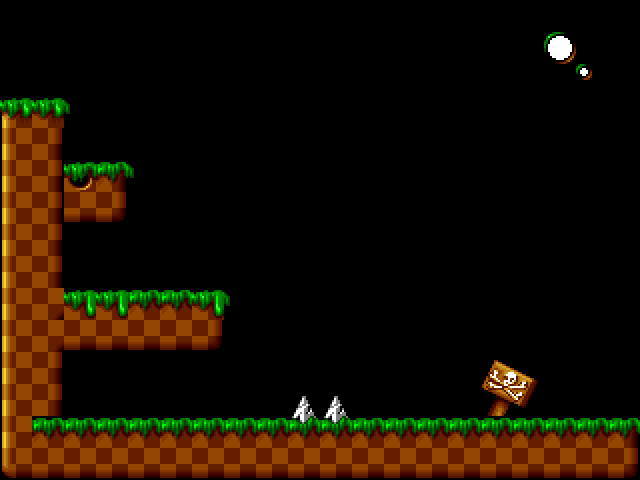
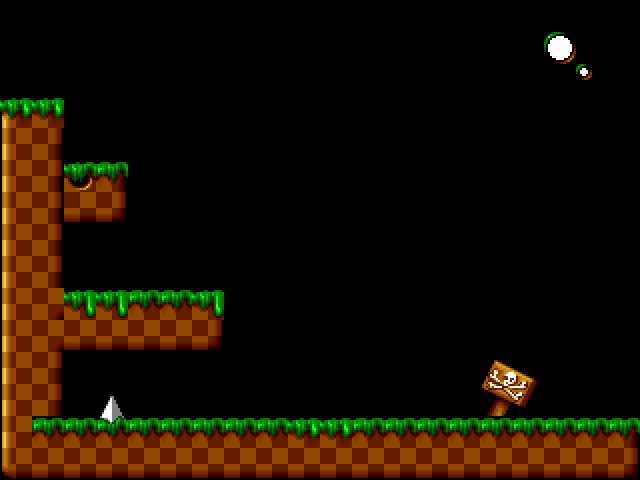
Se corrigieron bugs de la animación de la secuencia de disparo. La animación aún tiene issues y no funciona bien. Se agregaron los sprites para el modo Killer, con sus hojas de sprites para caminar hacia la izquierda y hacia la derecha.

diff --git a/MisteryForest/input.js b/MisteryForest/input.js
@@ -65,6 +65,8 @@ document.addEventListener("keydown", function (ev) {
         case 65:
             if (!firePressed)
             {
+                player.firing = true;
+
                 if (player.isFacingRight)
                 {
                     resourceUrl = 'resources/sprites/hero-sprite-shooting-right.png';
@@ -73,13 +75,13 @@ document.addEventListener("keydown", function (ev) {
                 {
                     //resourceUrl = 'resources/sprites/hero-sprite-jumping-left.png';
                 }
-                framesNumberToAnimate = 12;
+                framesNumberToAnimate = 16;
                 player.sprite.animate(true);
                 player.sprite.animateLinearSequence(resourceUrl, framesNumberToAnimate);
-
-                firePressed = true;
-                break;
             }
+            
+            firePressed = true;
+            break;
     }
 }, false);
 
@@ -100,6 +102,7 @@ document.addEventListener("keyup", function (ev) {
             break;
         case 65:
             firePressed = false;
+            player.firing = false;
             break;
     }
 }, false);
@@ -135,9 +138,7 @@ var inputHandler = {
         }
 
         if (jumpPressed) {
-
             player.sprite.animate(true);
-
         }
 
         if (firePressed) {

diff --git a/MisteryForest/entities/sprite.js b/MisteryForest/entities/sprite.js
@@ -70,7 +70,7 @@
 
                 if (this.counterFramesInLinearSequence < this.framesNumberToAnimateInLinearSequence) {
 
-                    this.draw(x, y);
+                    this.draw(player.size * this.counterFramesInLinearSequence, y);
                 }
                 else
                 {
@@ -97,6 +97,8 @@
         },
         
         animateLinearSequence: function (resourceUrl, framesNumberToAnimate) {
+
+            this.counterFramesInLinearSequence = 0;
 
             this.changeUrl(resourceUrl);
 

diff --git a/MisteryForest/app.js b/MisteryForest/app.js
@@ -109,8 +109,8 @@ function update() {
     // Limita la velocidad de la caída en el eje Y
     player.speedY = Math.min(player.speedY, player.maxFallingSpeed);
     
-    //Si está en el piso, anula la secuencia lineal de animación
-    if (player.onTheGround) {
+    //Si está en el piso y no está disparando, anula la secuencia lineal de animación
+    if (player.onTheGround && !player.firing) {
         player.sprite.linearSequence = false;
     }
 

diff --git a/MisteryForest/entities/player.js b/MisteryForest/entities/player.js
@@ -9,6 +9,9 @@ var player = {
 
     //Indica si finalizó el salto
     jumped: false,
+    
+    //Indica si está disparando
+    firing: false,
 
     //Timestamps del último salto, cuando el jugador tocó el suelo
     lastTouch: 0,
